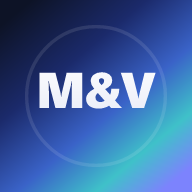
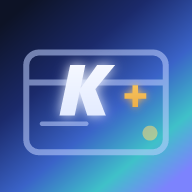
Rebrand do app pra "Kofre+"
Novo ícone (monograma K+ com brilho elétrico e carteira grande atrás,
no mesmo degradê azul da marca) substitui o M&V, que fazia sentido só
pra família original agora que o app é multi-família.

- icon-192.png / icon-512.png / manifest.json atualizados.
- Título da aba, PWA e marca dentro do app (sidebar + login) agora
  usam o ícone novo em vez do gradiente com texto.
- Nome e subtítulo padrão pra famílias novas: "Kofre+" / "Controle
  financeiro pra você e sua família" (famílias que já personalizaram
  o próprio nome, como a de vocês, não são afetadas).

Changed region(s): [[0.0938, 0.25, 0.9062, 0.8125]]

diff --git a/index.html b/index.html
@@ -3,14 +3,14 @@
 <head>
 <meta charset="UTF-8">
 <meta name="viewport" content="width=device-width, initial-scale=1, maximum-scale=1, viewport-fit=cover">
-<title>Painel Financeiro</title>
+<title>Kofre+</title>
 <link rel="manifest" href="manifest.json">
 <link rel="icon" href="icon-192.png">
 <link rel="apple-touch-icon" href="icon-192.png">
 <meta name="theme-color" content="#0D1326">
 <meta name="apple-mobile-web-app-capable" content="yes">
 <meta name="apple-mobile-web-app-status-bar-style" content="black-translucent">
-<meta name="apple-mobile-web-app-title" content="Painel">
+<meta name="apple-mobile-web-app-title" content="Kofre+">
 <link rel="preconnect" href="https://fonts.googleapis.com">
 <link href="https://fonts.googleapis.com/css2?family=Sora:wght@400;600;700;800&family=Inter:wght@400;500;600&family=IBM+Plex+Mono:wght@500;600&display=swap" rel="stylesheet">
 <script src="https://cdnjs.cloudflare.com/ajax/libs/Chart.js/4.4.0/chart.umd.min.js" defer></script>
@@ -37,11 +37,8 @@
     padding:22px 16px; display:flex; flex-direction:column; gap:22px; position:sticky; top:0; height:100vh; overflow-y:auto; }
   .brand{ display:flex; align-items:center; gap:10px; padding:0 4px; position:relative; }
   .brand-mark{ width:34px;height:34px;border-radius:10px; flex-shrink:0; cursor:pointer; position:relative;
-    background:linear-gradient(135deg, #0D1326 0%, #1B2A6B 32%, #3A63C8 60%, #3FC1C9 82%, #7C83FD 100%);
+    background-image:url('icon-192.png'); background-color:#0D1326;
     background-size:cover; background-position:center; overflow:hidden; }
-  .brand-mark::before{ content:"M&V"; position:absolute; inset:0; display:flex; align-items:center; justify-content:center;
-    color:#fff; font-family:'Sora',sans-serif; font-weight:800; font-size:9.5px; letter-spacing:-.3px; }
-  .brand-mark.has-custom-logo::before{ display:none; }
   .brand-mark::after{ content:"✎"; position:absolute; inset:0; display:flex; align-items:center; justify-content:center;
     background:rgba(13,19,38,.55); color:#fff; font-size:12px; opacity:0; transition:.12s; }
   .brand-mark:hover::after{ opacity:1; }
@@ -209,7 +206,7 @@
   .login-card{ width:100%; max-width:340px; background:var(--panel); border:1px solid var(--border);
     border-radius:16px; padding:28px 24px; display:flex; flex-direction:column; gap:14px; }
   .login-mark{ width:44px;height:44px;border-radius:12px; margin:0 auto 4px;
-    background:linear-gradient(135deg, #0D1326 0%, #1B2A6B 32%, #3A63C8 60%, #3FC1C9 82%, #7C83FD 100%); }
+    background-image:url('icon-192.png'); background-size:cover; background-position:center; background-color:#0D1326; }
   .login-card h2{ text-align:center; font-size:18px; margin-bottom:2px; }
   .login-card .field label{ font-size:11.5px; }
   .login-card .field input{ width:100%; font-size:15px; padding:10px 12px; }
@@ -373,7 +370,7 @@
 <div class="sidebar-overlay" id="sidebarOverlay"></div>
 <div class="mobile-topbar">
   <button class="hamburger" id="hamburgerBtn">☰</button>
-  <div class="mt-title">Painel Financeiro</div>
+  <div class="mt-title">Kofre+</div>
 </div>
 <div class="app">
 
@@ -650,7 +647,7 @@ function colorFor(cat){
 
 function defaultDB(){
   return {
-    config: { nome:'', metaEconomia: 1000, tituloApp:'Painel', subtitulo:'Finanças Pessoais', logoDataUrl:null },
+    config: { nome:'', metaEconomia: 1000, tituloApp:'Kofre+', subtitulo:'Controle financeiro pra você e sua família', logoDataUrl:null },
     anosExtras: [],
     categorias: [
       {kw:'mercado',cat:'Alimentação'},{kw:'supermercado',cat:'Alimentação'},{kw:'ifood',cat:'Alimentação'},
@@ -890,8 +887,8 @@ function setupOnboardingUI(user){
 
 function migrateDB(){
   db.anosExtras = db.anosExtras || [];
-  db.config.tituloApp = db.config.tituloApp || 'Painel';
-  db.config.subtitulo = db.config.subtitulo || 'Finanças Pessoais';
+  db.config.tituloApp = db.config.tituloApp || 'Kofre+';
+  db.config.subtitulo = db.config.subtitulo || 'Controle financeiro pra você e sua família';
   db.config.logoDataUrl = db.config.logoDataUrl || null;
   db.contasFixas = db.contasFixas || [];
 }
